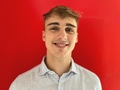
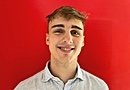
Adjust image sizes

diff --git a/assets/content.js b/assets/content.js
@@ -242,7 +242,12 @@ export default function Studio({ locale }) {
             <div className="uk-width-large-7-10 uk-width-medium-7-10">
               <div className="uk-grid">
                 <div className="uk-width-medium-2-3">
-                  <img src="img/personal/johanna.jpg" alt="Johanna Herbst" />
+                  <img
+                    src="img/personal/johanna@2x.jpg"
+                    width="210"
+                    height="140"
+                    alt="Johanna Herbst"
+                  />
                   <div className="team-member">
                     {l.team.roles.RADR} <br />
                     <span className="italic">Johanna Herbst</span>
@@ -268,7 +273,12 @@ export default function Studio({ locale }) {
                   </div>
                 </div>
                 <div className="uk-width-medium-1-2">
-                  <img src="img/personal/luca_riva.jpg" alt="Luca Riva" />
+                  <img
+                    width="130"
+                    height="90"
+                    src="img/personal/luca_riva@2x.jpg"
+                    alt="Luca Riva"
+                  />
                   <div className="team-member">
                     {l.team.roles.RADR} <br />
                     <span className="italic">Luca Riva </span>
@@ -279,7 +289,12 @@ export default function Studio({ locale }) {
                   <div className="uk-width-medium-1-3"></div>
                 </div>
                 <div className="uk-width-medium-1-2 uk-margin-top">
-                  <img src="img/personal/rosa.jpg" alt="Rosa Herbst" />
+                  <img
+                    width="130"
+                    height="90"
+                    src="img/personal/rosa.jpg"
+                    alt="Rosa Herbst"
+                  />
                   <div className="team-member">
                     <span className="italic">Rosa Herbst</span> <br />
                     {l.team.roles.sek_in}
@@ -288,7 +303,9 @@ export default function Studio({ locale }) {
                 </div>
                 <div className="uk-width-medium-1-2 uk-margin-top">
                   <img
-                    src="img/personal/sebastian.jpg"
+                    width="130"
+                    height="90"
+                    src="img/personal/sebastian@2x.jpg"
                     alt="Sebastian Dibiasi"
                   />
                   <div className="team-member">
